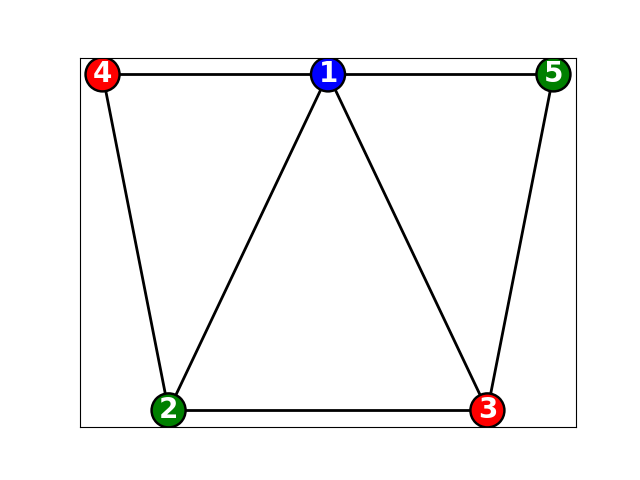
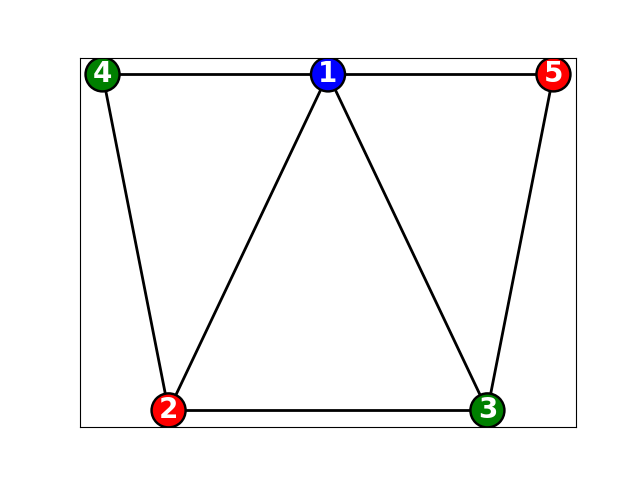
Update Good-Ordering so colours are consistant with ordering

diff --git a/Code/Importance-Of-Order-Good-Ordering.py b/Code/Importance-Of-Order-Good-Ordering.py
@@ -26,7 +26,7 @@ edges = [('A', 'B'), ('A', 'C'), ('A', 'D'), ('A', 'E'), ('B', 'C'), ('C', 'D'),
 G.add_edges_from(edges)
 
 #Define the colouring
-colouring = {'A': 0, 'B': 1, 'C': 2, 'D': 1, 'E': 2}
+colouring = {'A': 0, 'B': 2, 'C': 1, 'D': 2, 'E': 1}
 #Convert to colours
 output_colouring = numerical_to_colours(colouring)
 
